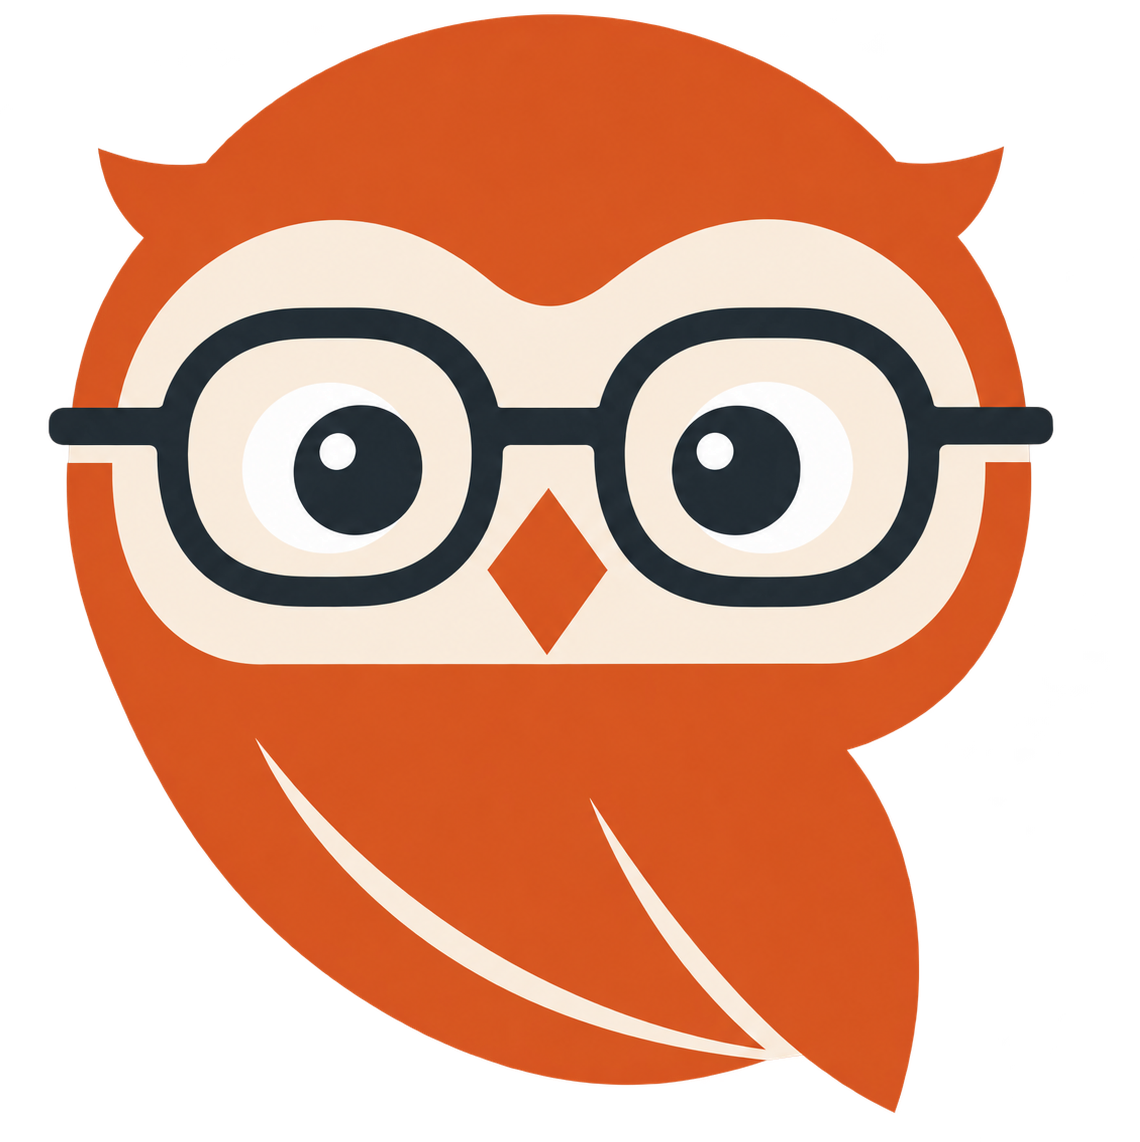
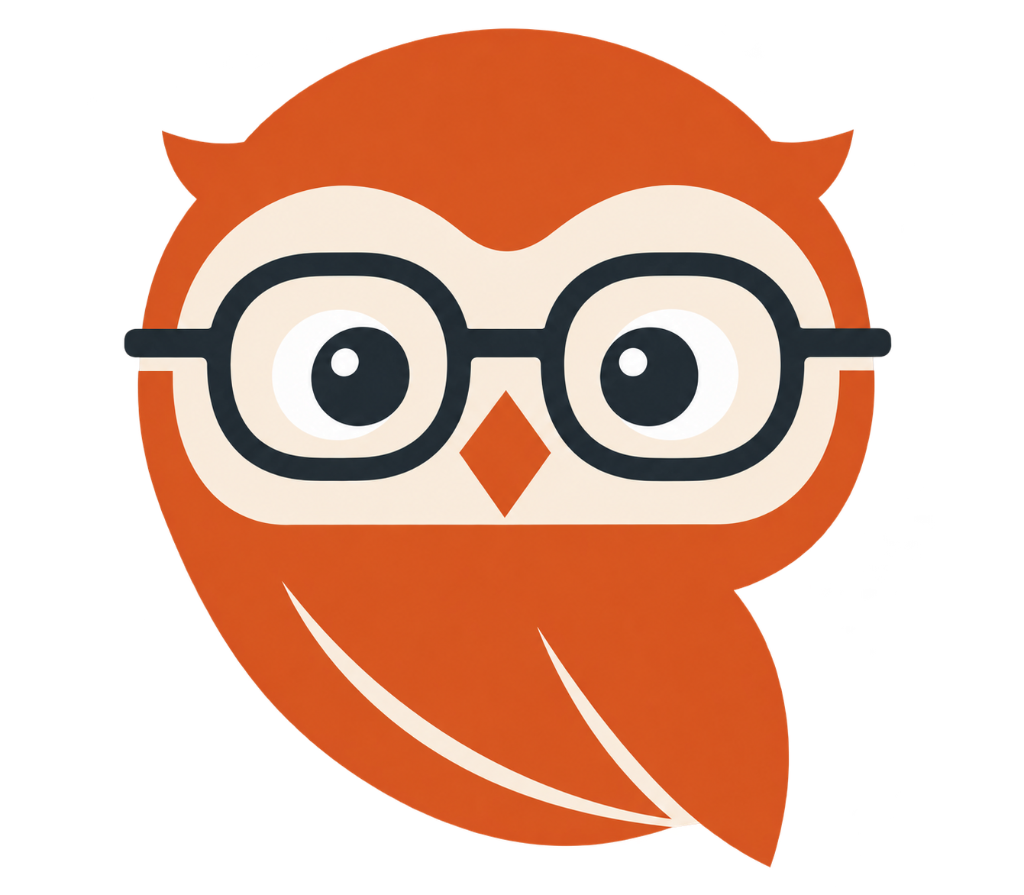
feat(branding): refine owl mascot proportions and fix footer hover compositing

diff --git a/artifacts/vedic-school/src/components/Navbar.tsx b/artifacts/vedic-school/src/components/Navbar.tsx
@@ -3,7 +3,8 @@ import { Link, useLocation } from 'wouter';
 import { Menu, X } from 'lucide-react';
 import { Button } from './Button';
 import { cn } from '@/lib/utils';
-import headerLogo from '@assets/the-vedic-school-header-logo.png';
+import wordmarkLogo from '@assets/the-vedic-school-logo.png';
+import owlMascot from '@assets/the-vedic-school-owl-mascot.png';
 import { useDemoModal } from '@/context/DemoModalContext';
 
 export function Logo({ className }: { className?: string }) {
@@ -11,17 +12,24 @@ export function Logo({ className }: { className?: string }) {
     <Link 
       href="/" 
       className={cn(
-        'inline-flex items-center shrink-0 focus-visible:outline-none focus-visible:ring-2 focus-visible:ring-primary focus-visible:ring-offset-2 rounded-md transition-opacity hover:opacity-95',
+        'inline-flex items-center gap-2 lg:gap-2.5 shrink-0 focus-visible:outline-none focus-visible:ring-2 focus-visible:ring-primary focus-visible:ring-offset-2 rounded-md transition-opacity hover:opacity-95',
         className
       )}
       aria-label="The Vedic School Homepage"
     >
       <img 
-        src={headerLogo} 
+        src={owlMascot} 
+        alt="" 
+        className="h-7 sm:h-8 md:h-9 lg:h-[39px] w-auto object-contain shrink-0" 
+        width={45}
+        height={39}
+      />
+      <img 
+        src={wordmarkLogo} 
         alt="The Vedic School" 
-        className="h-8 sm:h-9 md:h-10 lg:h-11 w-auto object-contain shrink-0" 
-        width={138}
-        height={44}
+        className="h-11 sm:h-12 md:h-14 lg:h-15 w-auto object-contain shrink-0" 
+        width={180}
+        height={60}
       />
     </Link>
   );
@@ -84,15 +92,15 @@ export function Navbar() {
           isScrolled ? 'border-stone-200/90 shadow-2xs py-3' : 'border-stone-200/70 py-3.5 sm:py-4'
         )}
       >
-        <div className="max-w-7xl mx-auto px-4 sm:px-6 lg:px-8 flex items-center justify-between">
-          {/* Left: Brand Logo Lockup */}
-          <div className="flex items-center shrink-0 min-w-0 lg:min-w-[210px]">
+        <div className="max-w-7xl mx-auto px-4 sm:px-6 xl:px-8 flex items-center justify-between">
+          {/* Left: Brand Area */}
+          <div className="flex items-center shrink-0 min-w-0 xl:min-w-[240px]">
             <Logo />
           </div>
 
           {/* Center: Main Navigation (Desktop) */}
           <nav 
-            className="hidden lg:flex items-center justify-center gap-6 xl:gap-8 2xl:gap-9" 
+            className="hidden lg:flex items-center justify-center gap-3.5 xl:gap-7 2xl:gap-8 mx-4 xl:mx-8" 
             aria-label="Main Navigation"
           >
             {navLinks.map((link) => {
@@ -105,7 +113,7 @@ export function Navbar() {
                   href={link.href}
                   aria-current={isActive ? 'page' : undefined}
                   className={cn(
-                    'text-[14.5px] font-medium transition-colors whitespace-nowrap focus-visible:outline-none focus-visible:ring-2 focus-visible:ring-primary focus-visible:ring-offset-2 rounded-xs',
+                    'text-[14px] xl:text-[14.5px] font-medium transition-colors whitespace-nowrap focus-visible:outline-none focus-visible:ring-2 focus-visible:ring-primary focus-visible:ring-offset-2 rounded-xs',
                     isActive 
                       ? 'text-primary font-semibold' 
                       : 'text-stone-700 hover:text-primary'
@@ -118,7 +126,7 @@ export function Navbar() {
           </nav>
 
           {/* Right: Primary CTA & Mobile/Tablet Menu Button */}
-          <div className="flex items-center justify-end shrink-0 lg:min-w-[210px] gap-3 sm:gap-4">
+          <div className="flex items-center justify-end shrink-0 xl:min-w-[240px] gap-3 sm:gap-4">
             <div className="hidden md:block">
               <Button 
                 size="sm" 

diff --git a/artifacts/vedic-school/src/components/Footer.tsx b/artifacts/vedic-school/src/components/Footer.tsx
@@ -1,7 +1,8 @@
 import React from 'react';
 import { Link } from 'wouter';
 import { Instagram, Facebook, Youtube, Linkedin } from 'lucide-react';
-import logoImg from '@assets/the-vedic-school-footer-logo.png';
+import wordmarkLogo from '@assets/the-vedic-school-logo.png';
+import owlMascot from '@assets/the-vedic-school-owl-mascot.png';
 
 export function Footer() {
   return (
@@ -10,9 +11,30 @@ export function Footer() {
         <div className="grid grid-cols-1 md:grid-cols-2 lg:grid-cols-4 gap-12 lg:gap-8">
           
           <div className="col-span-1 lg:col-span-1">
-            <div className="mb-10">
-              <Link href="/" className="inline-block">
-                <img src={logoImg} alt="The Vedic School" className="h-11 w-auto" />
+            <div className="mb-8">
+              <Link 
+                href="/" 
+                className="inline-flex items-center gap-2 md:gap-2.5 focus-visible:outline-none focus-visible:ring-2 focus-visible:ring-primary focus-visible:ring-offset-2 focus-visible:ring-offset-[#3B424C] rounded-md"
+                aria-label="The Vedic School Homepage"
+              >
+                <img 
+                  src={owlMascot} 
+                  alt="" 
+                  className="h-7 md:h-[35px] w-auto object-contain shrink-0" 
+                  width={40}
+                  height={35}
+                />
+                <img 
+                  src={wordmarkLogo} 
+                  alt="The Vedic School" 
+                  className="h-10 md:h-12 w-auto object-contain shrink-0" 
+                  style={{
+                    filter: 'invert(1) brightness(1.2)',
+                    mixBlendMode: 'screen',
+                  }}
+                  width={144}
+                  height={48}
+                />
               </Link>
             </div>
             <p className="text-background/70 text-sm leading-relaxed max-w-xs">
